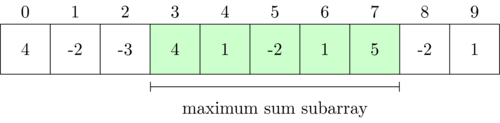
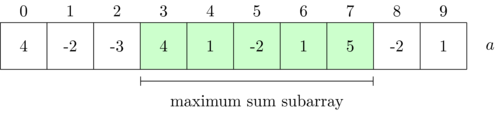
up

diff --git a/images/maxsubarray3.tex b/images/maxsubarray3.tex
@@ -1,0 +1,97 @@
+\documentclass[convert={density=300,outext=.png}]{standalone}
+\usepackage{tikz}
+
+
+%\usetikzlibrary{external}
+
+%\tikzset{external/system call={pdflatex \tikzexternalcheckshellescape 
+%-halt-on-error
+%                                        -interaction=batchmode 
+%                                        -jobname "\image" "\texsource"
+%                                        && pdftops -png "\image.png"}}
+%\tikzexternalize[shell escape=-enable-write18]
+
+%opening
+%\title{}
+%\author{}
+%\date{}
+
+\begin{document}
+
+
+\begin{tikzpicture}
+
+\def\x{0}
+\def\y{0}
+
+%\fill (\x + 1, \y + 0) rectangle (\x + 6, \y + 1);
+
+\draw (\x + -1, \y + 0) rectangle (\x + 10, \y + 1);
+\draw (\x + 7, \y + 0) -- (\x + 7, \y + 1);
+\draw (\x + 6, \y + 0) -- (\x + 6, \y + 1);
+\draw (\x + 1, \y + 0) -- (\x + 1, \y + 1);
+\draw (\x + 5, \y + 0) -- (\x + 5, \y + 1);
+
+\node at (10.5, 0.5) {$a$};
+
+\node at (\x + 6.5, \y + 1.25) {$i$}; 
+\node at (\x + 5.5, \y + 1.25) {$i - 1$}; 
+
+\draw[|-|, cyan] (\x + 1, \y + -0.25) -- (\x + 7, \y + -0.25);
+
+\node at (\x + 4, \y + -0.6) {\footnotesize if {\color{cyan} this} is the max sum subarray ending at $i$};
+
+\draw[|-|, orange] (\x + 1, \y + -1) -- (\x + 6, \y + -1);
+
+\node at (\x + 3.5, \y + -1.4) {\footnotesize then {\color{orange} this} must be the max sum subarray ending at $i - 1$};
+
+
+
+%\node at (\x + 3.5, \y + -0.6) {\footnotesize max sum subarray ending at $i - 1$};
+
+% 
+% \def\x{-7}
+% \def\y{-4}
+% 
+% \fill[green!50!white] (\x + 6, \y + 0) rectangle (\x + 7, \y + 1);
+% 
+% \draw (\x + -1, \y + 0) rectangle (\x + 10, \y + 1);
+% \draw (\x + 7, \y + 0) -- (\x + 7, \y + 1);
+% \draw (\x + 6, \y + 0) -- (\x + 6, \y + 1);
+% \draw (\x + 1, \y + 0) -- (\x + 1, \y + 1);
+% \draw (\x + 5, \y + 0) -- (\x + 5, \y + 1);
+% 
+% \node at (\x + 6.5, \y + 1.25) {$i$}; 
+% \node at (\x + 5.5, \y + 1.25) {$i - 1$}; 
+% 
+% 
+% \draw[|-|] (\x + 1, \y + -0.25) -- (\x + 6, \y + -0.25);
+% 
+% \node at (\x + 3.5, \y + -0.6) {\footnotesize max sum subarray ending at $i - 1$};
+% 
+% 
+% 
+% \def\x{7}
+% \def\y{-4}
+% 
+% \fill[green!50!white] (\x + 1, \y + 0) rectangle (\x + 6, \y + 1);
+% 
+% \draw (\x + -1, \y + 0) rectangle (\x + 10, \y + 1);
+% \draw (\x + 7, \y + 0) -- (\x + 7, \y + 1);
+% \draw (\x + 6, \y + 0) -- (\x + 6, \y + 1);
+% \draw (\x + 1, \y + 0) -- (\x + 1, \y + 1);
+% \draw (\x + 5, \y + 0) -- (\x + 5, \y + 1);
+% 
+% \node at (\x + 6.5, \y + 1.25) {$i$}; 
+% \node at (\x + 5.5, \y + 1.25) {$i - 1$}; 
+% 
+% 
+% \draw[|-|] (\x + 1, \y + -0.25) -- (\x + 6, \y + -0.25);
+% 
+% \node at (\x + 3.5, \y + -0.6) {\footnotesize max sum subarray ending at $i - 1$};
+
+\end{tikzpicture}
+
+
+\end{document}
+

diff --git a/images/maxsubarray.tex b/images/maxsubarray.tex
@@ -38,6 +38,9 @@
 
 \draw[|-|] (3, -0.25) -- (8, -0.25);
 \node at (5.5, -0.7) {maximum sum subarray};
+
+\node at (10.5, 0.5) {$a$};
+
 \end{tikzpicture}
 
 
